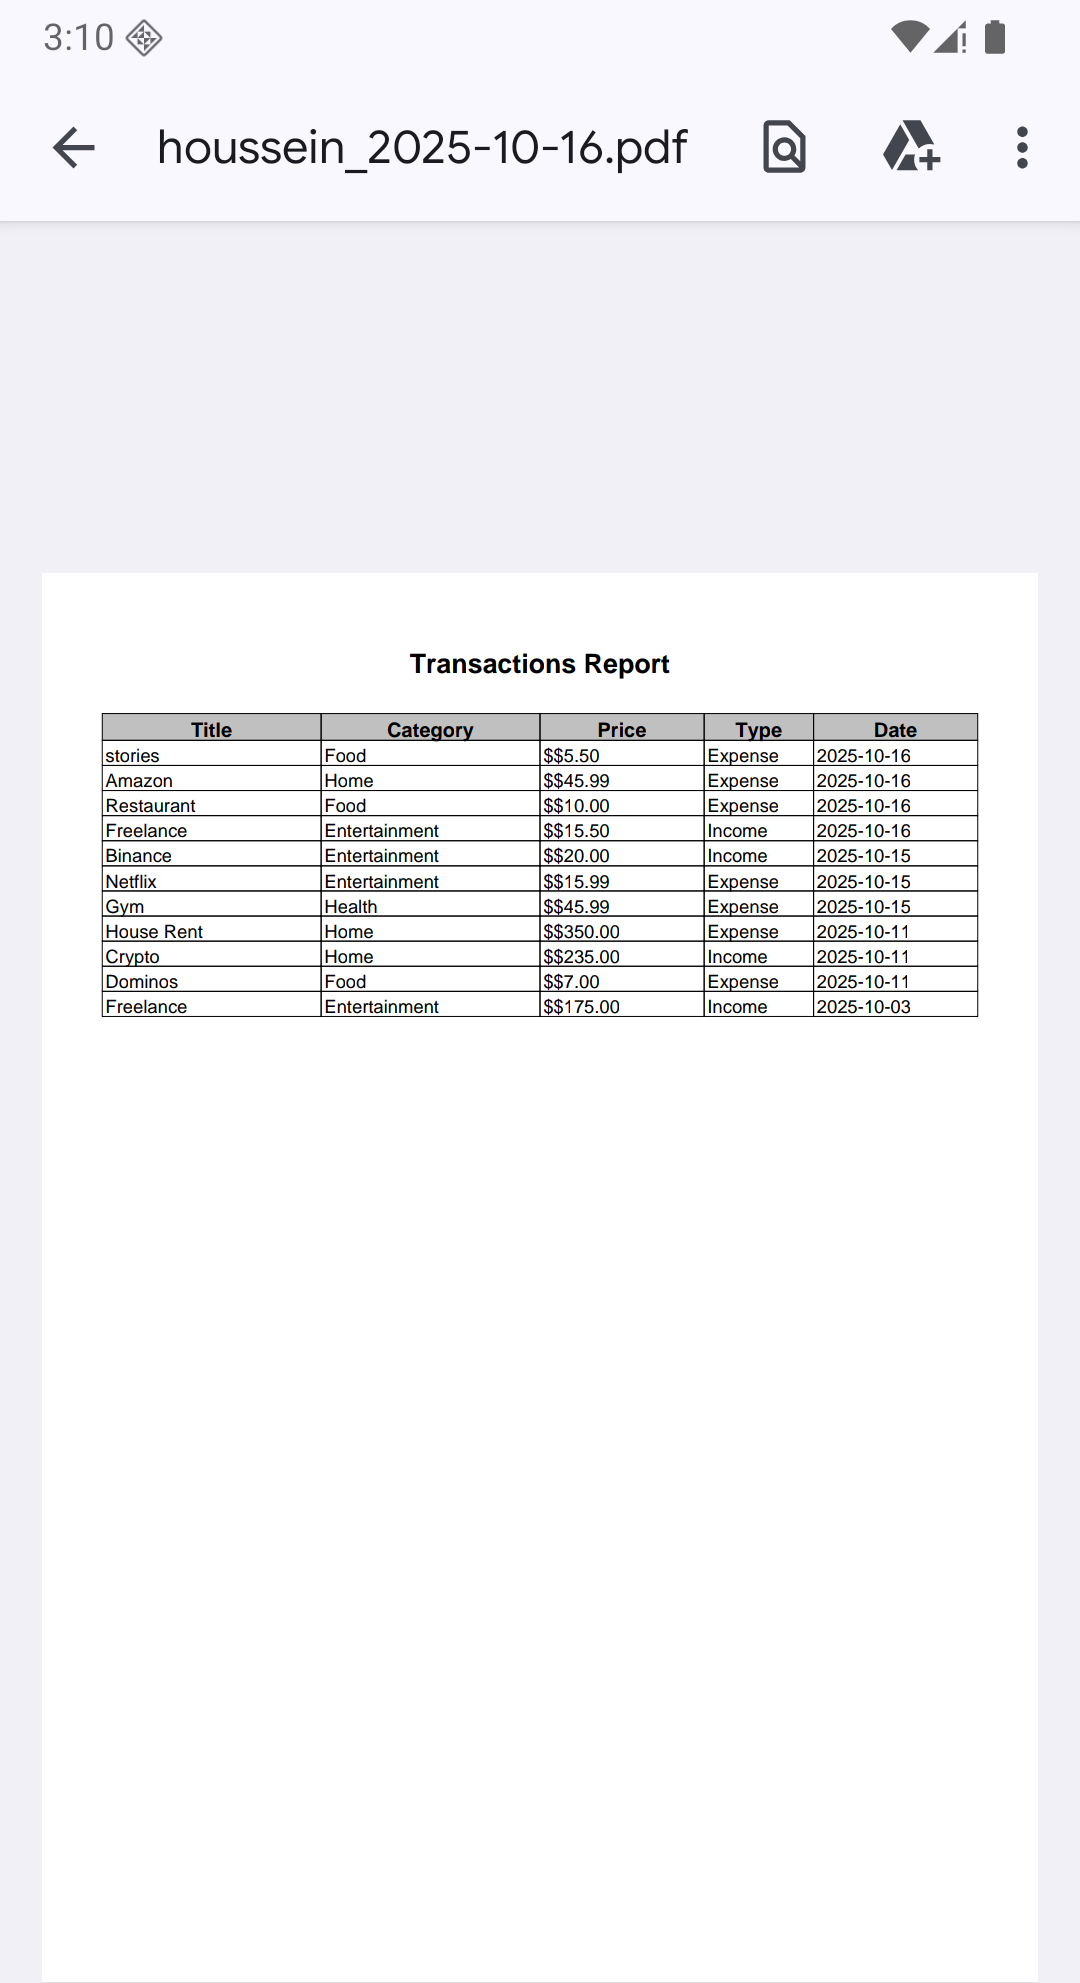
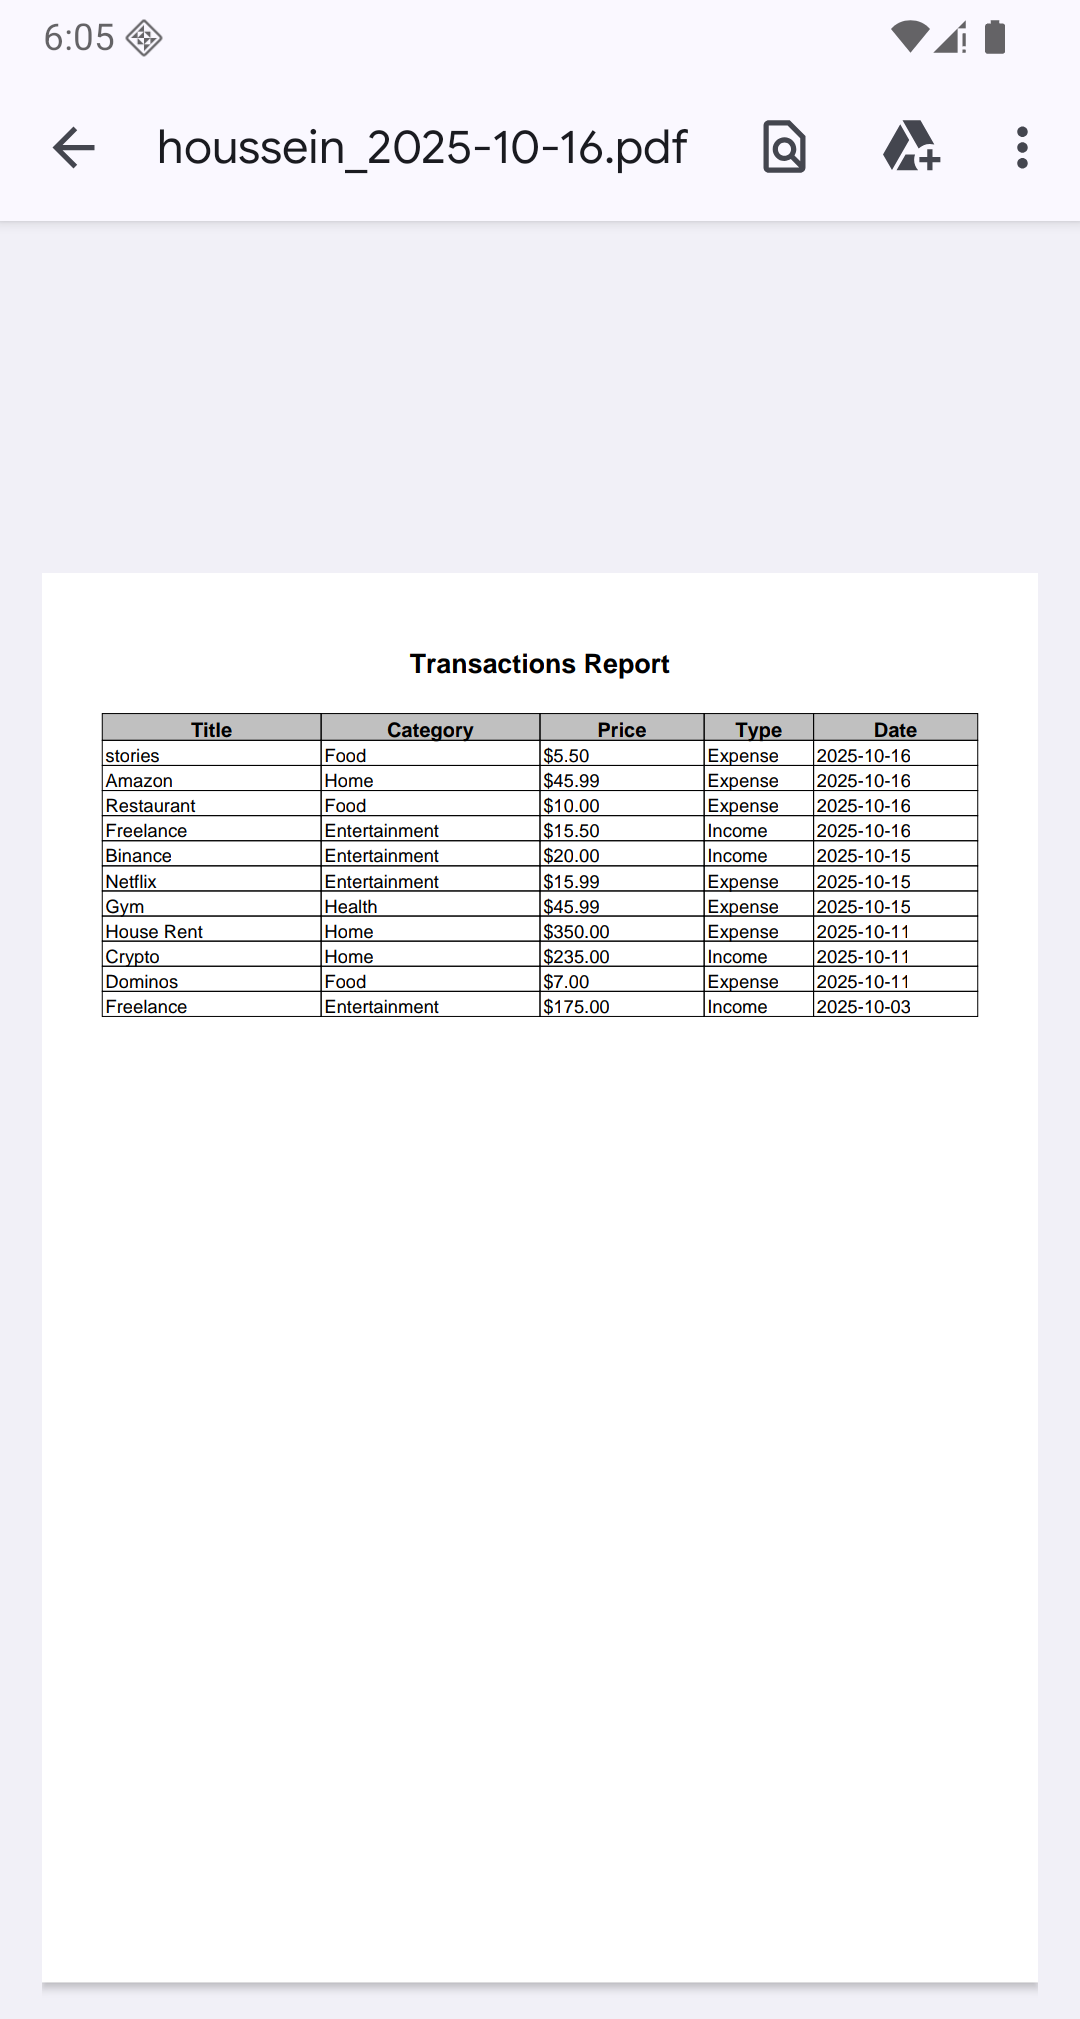
:bug: Fix Bug

diff --git a/app/src/main/java/com/example/spendless/features/finance/presentation/ui/screens/transactions/util/FileExporter.kt b/app/src/main/java/com/example/spendless/features/finance/presentation/ui/screens/transactions/util/FileExporter.kt
@@ -102,7 +102,7 @@ class FileExporter @Inject constructor(@ApplicationContext val context: Context)
         transactionsList.forEach { txn ->
             table.addCell(Phrase(txn.title, cellFont))
             table.addCell(Phrase(txn.category.categoryName.name, cellFont))
-            table.addCell(Phrase("$${txn.price}", cellFont))
+            table.addCell(Phrase(txn.price, cellFont))
             table.addCell(Phrase(if (txn.isExpense) "Expense" else "Income", cellFont))
             table.addCell(Phrase(txn.date, cellFont))
         }
